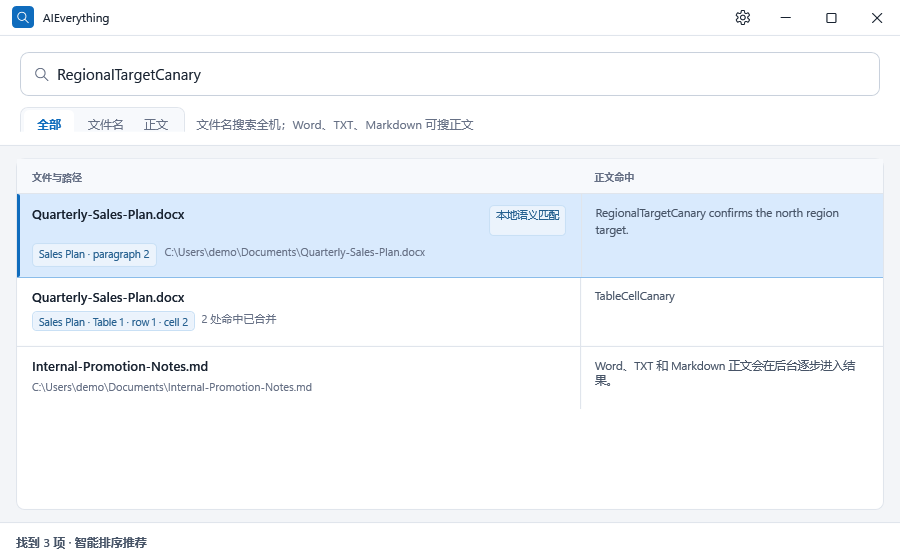
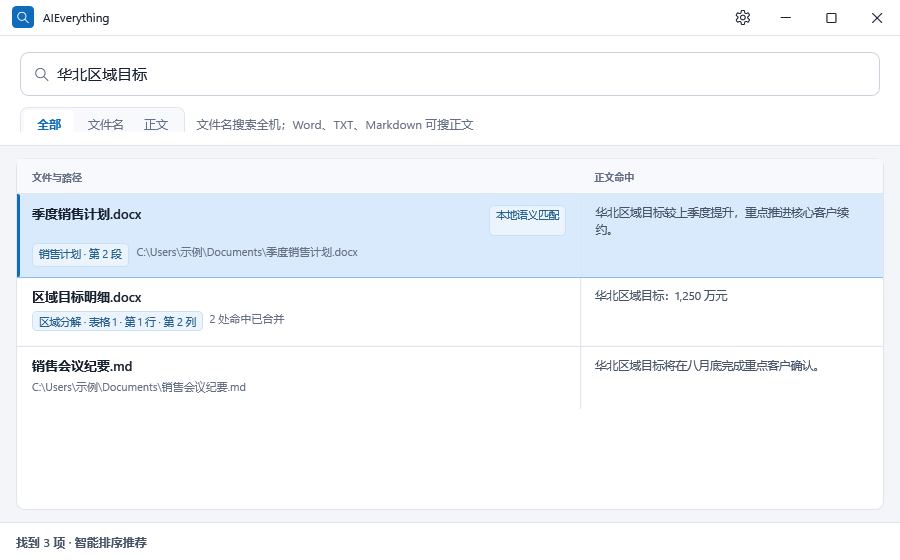
fix: localize Word locations and promotion proof

diff --git a/src/AIEverything.App/PromotionScreenshotView.xaml b/src/AIEverything.App/PromotionScreenshotView.xaml
@@ -50,7 +50,7 @@
                         <TextBlock Text="&#xE721;" FontFamily="Segoe Fluent Icons, Segoe MDL2 Assets"
                                    FontSize="15" Foreground="{StaticResource MutedTextBrush}"
                                    VerticalAlignment="Center" />
-                        <TextBlock Grid.Column="1" Text="RegionalTargetCanary"
+                        <TextBlock Grid.Column="1" Text="华北区域目标"
                                    FontSize="15" VerticalAlignment="Center" />
                     </Grid>
                 </Border>
@@ -110,7 +110,7 @@
                                 <Grid.RowDefinitions><RowDefinition /><RowDefinition /></Grid.RowDefinitions>
                                 <Grid>
                                     <Grid.ColumnDefinitions><ColumnDefinition Width="*" /><ColumnDefinition Width="Auto" /></Grid.ColumnDefinitions>
-                                    <TextBlock Text="Quarterly-Sales-Plan.docx" FontSize="13" FontWeight="SemiBold" />
+                                    <TextBlock Text="季度销售计划.docx" FontSize="13" FontWeight="SemiBold" />
                                     <Border Grid.Column="1" Style="{StaticResource MetadataBadgeStyle}" Margin="8,0,0,0">
                                         <TextBlock Text="本地语义匹配" FontSize="10.5" Foreground="#245F8F" />
                                     </Border>
@@ -118,16 +118,16 @@
                                 <Grid Grid.Row="1" Margin="0,7,0,0">
                                     <Grid.ColumnDefinitions><ColumnDefinition Width="Auto" /><ColumnDefinition Width="*" /></Grid.ColumnDefinitions>
                                     <Border Style="{StaticResource MetadataBadgeStyle}">
-                                        <TextBlock Text="Sales Plan · paragraph 2" FontSize="10.5" Foreground="#245F8F" />
+                                        <TextBlock Text="销售计划 · 第 2 段" FontSize="10.5" Foreground="#245F8F" />
                                     </Border>
                                     <TextBlock Grid.Column="1" Margin="8,1,0,0"
-                                               Text="C:\Users\demo\Documents\Quarterly-Sales-Plan.docx"
+                                               Text="C:\Users\示例\Documents\季度销售计划.docx"
                                                Foreground="{StaticResource MutedTextBrush}" FontSize="11" />
                                 </Grid>
                             </Grid>
                             <Border Grid.Column="2" BorderBrush="{StaticResource BorderBrush}"
                                     BorderThickness="1,0,0,0" Padding="14,10,12,8">
-                                <TextBlock Text="RegionalTargetCanary confirms the north region target."
+                                <TextBlock Text="华北区域目标较上季度提升，重点推进核心客户续约。"
                                            Foreground="{StaticResource SecondaryTextBrush}" FontSize="11.5"
                                            LineHeight="17" TextWrapping="Wrap" />
                             </Border>
@@ -138,16 +138,16 @@
                         <Grid Height="68">
                             <Grid.ColumnDefinitions><ColumnDefinition Width="13*" /><ColumnDefinition Width="7*" /></Grid.ColumnDefinitions>
                             <StackPanel Margin="15,10">
-                                <TextBlock Text="Quarterly-Sales-Plan.docx" FontSize="13" FontWeight="SemiBold" />
+                                <TextBlock Text="区域目标明细.docx" FontSize="13" FontWeight="SemiBold" />
                                 <StackPanel Orientation="Horizontal" Margin="0,6,0,0">
                                     <Border Style="{StaticResource MetadataBadgeStyle}">
-                                        <TextBlock Text="Sales Plan · Table 1 · row 1 · cell 2" FontSize="10.5" Foreground="#245F8F" />
+                                        <TextBlock Text="区域分解 · 表格 1 · 第 1 行 · 第 2 列" FontSize="10.5" Foreground="#245F8F" />
                                     </Border>
                                     <TextBlock Text="  2 处命中已合并" Foreground="{StaticResource MutedTextBrush}" FontSize="11" />
                                 </StackPanel>
                             </StackPanel>
                             <Border Grid.Column="1" BorderBrush="{StaticResource BorderBrush}" BorderThickness="1,0,0,0" Padding="14,10">
-                                <TextBlock Text="TableCellCanary" Foreground="{StaticResource SecondaryTextBrush}" FontSize="11.5" />
+                                <TextBlock Text="华北区域目标：1,250 万元" Foreground="{StaticResource SecondaryTextBrush}" FontSize="11.5" />
                             </Border>
                         </Grid>
                     </Border>
@@ -155,12 +155,12 @@
                     <Grid Height="62">
                         <Grid.ColumnDefinitions><ColumnDefinition Width="13*" /><ColumnDefinition Width="7*" /></Grid.ColumnDefinitions>
                         <StackPanel Margin="15,10">
-                            <TextBlock Text="Internal-Promotion-Notes.md" FontSize="13" FontWeight="SemiBold" />
-                            <TextBlock Text="C:\Users\demo\Documents\Internal-Promotion-Notes.md"
+                            <TextBlock Text="销售会议纪要.md" FontSize="13" FontWeight="SemiBold" />
+                            <TextBlock Text="C:\Users\示例\Documents\销售会议纪要.md"
                                        Margin="0,5,0,0" Foreground="{StaticResource MutedTextBrush}" FontSize="11" />
                         </StackPanel>
                         <Border Grid.Column="1" BorderBrush="{StaticResource BorderBrush}" BorderThickness="1,0,0,0" Padding="14,10">
-                            <TextBlock Text="Word、TXT 和 Markdown 正文会在后台逐步进入结果。"
+                            <TextBlock Text="华北区域目标将在八月底完成重点客户确认。"
                                        TextWrapping="Wrap" Foreground="{StaticResource SecondaryTextBrush}" FontSize="11.5" />
                         </Border>
                     </Grid>

diff --git a/src/AIEverything.Content/Extraction/OpenXmlTextExtractor.cs b/src/AIEverything.Content/Extraction/OpenXmlTextExtractor.cs
@@ -60,15 +60,15 @@ public sealed class OpenXmlTextExtractor : ITextExtractor
                     headingStack[level - 1] = text;
                     Array.Clear(headingStack, level, headingStack.Length - level);
                     var headingPath = CurrentHeadingPath(headingStack);
-                    blocks.Add(new ExtractedTextBlock(++ordinal, text, $"{headingPath} · heading {level}", headingPath));
+                    blocks.Add(new ExtractedTextBlock(++ordinal, text, $"{headingPath} · 标题 {level}", headingPath));
                     continue;
                 }
 
                 paragraphNumber++;
                 var currentHeading = CurrentHeadingPath(headingStack);
                 var label = currentHeading is null
-                    ? $"paragraph {paragraphNumber}"
-                    : $"{currentHeading} · paragraph {paragraphNumber}";
+                    ? $"第 {paragraphNumber} 段"
+                    : $"{currentHeading} · 第 {paragraphNumber} 段";
                 blocks.Add(new ExtractedTextBlock(++ordinal, text, label, currentHeading));
             }
             else if (element is W.Table table)
@@ -91,7 +91,7 @@ public sealed class OpenXmlTextExtractor : ITextExtractor
                         }
 
                         var currentHeading = CurrentHeadingPath(headingStack);
-                        var coordinates = $"Table {tableNumber} · row {rowNumber} · cell {cellNumber}";
+                        var coordinates = $"表格 {tableNumber} · 第 {rowNumber} 行 · 第 {cellNumber} 列";
                         var label = currentHeading is null ? coordinates : $"{currentHeading} · {coordinates}";
                         blocks.Add(new ExtractedTextBlock(++ordinal, text, label, currentHeading));
                     }

diff --git a/tests/AIEverything.Server.Tests/Desktop/StandaloneProductContractTests.cs b/tests/AIEverything.Server.Tests/Desktop/StandaloneProductContractTests.cs
@@ -145,9 +145,17 @@ public sealed class StandaloneProductContractTests
         Assert.Contains("PngBitmapEncoder", renderer, StringComparison.Ordinal);
         Assert.DoesNotContain("HttpListener", renderer, StringComparison.Ordinal);
         Assert.DoesNotContain("ContentIndexStore", renderer, StringComparison.Ordinal);
-        Assert.Contains("Quarterly-Sales-Plan.docx", view, StringComparison.Ordinal);
-        Assert.Contains("Sales Plan · paragraph 2", view, StringComparison.Ordinal);
-        Assert.Contains("RegionalTargetCanary", view, StringComparison.Ordinal);
+        Assert.Contains("季度销售计划.docx", view, StringComparison.Ordinal);
+        Assert.Single(System.Text.RegularExpressions.Regex.Matches(
+            view,
+            "Text=\"季度销售计划\\.docx\"",
+            System.Text.RegularExpressions.RegexOptions.CultureInvariant)
+            .Cast<System.Text.RegularExpressions.Match>());
+        Assert.Contains("区域目标明细.docx", view, StringComparison.Ordinal);
+        Assert.Contains("销售计划 · 第 2 段", view, StringComparison.Ordinal);
+        Assert.Contains("华北区域目标", view, StringComparison.Ordinal);
+        Assert.DoesNotContain("Canary", view, StringComparison.OrdinalIgnoreCase);
+        Assert.DoesNotContain("TestCanary", view, StringComparison.OrdinalIgnoreCase);
         Assert.Contains("本地语义匹配", view, StringComparison.Ordinal);
         Assert.Contains("找到 3 项 · 智能排序推荐", view, StringComparison.Ordinal);
 

diff --git a/tests/AIEverything.Server.Tests/Content/MachineSnapshotStoreTests.cs b/tests/AIEverything.Server.Tests/Content/MachineSnapshotStoreTests.cs
@@ -91,7 +91,7 @@ public sealed class MachineSnapshotStoreTests : IAsyncLifetime
         var blocks = new[]
         {
             new ExtractedTextBlock(1, "Sales Plan", "Sales Plan · heading 1", "Sales Plan"),
-            new ExtractedTextBlock(2, "regional target is rising", "Sales Plan · paragraph 4", "Sales Plan")
+            new ExtractedTextBlock(2, "regional target is rising", "Sales Plan · 第 4 段", "Sales Plan")
         };
         await _store.CompleteAsync(
             lease,
@@ -102,7 +102,7 @@ public sealed class MachineSnapshotStoreTests : IAsyncLifetime
             new ContentSearchRequest("regional target"), CancellationToken.None);
 
         var item = Assert.Single(response.Items);
-        Assert.Equal("Sales Plan · paragraph 4", item.LocationLabel);
+        Assert.Equal("Sales Plan · 第 4 段", item.LocationLabel);
         Assert.Equal("Sales Plan", item.HeadingPath);
     }
 

diff --git a/tests/AIEverything.Server.Tests/Content/SourceLocationResolverTests.cs b/tests/AIEverything.Server.Tests/Content/SourceLocationResolverTests.cs
@@ -11,13 +11,13 @@ public sealed class SourceLocationResolverTests
         var blocks = new[]
         {
             new ExtractedTextBlock(1, "Sales Plan", "Sales Plan · heading 1", "Sales Plan"),
-            new ExtractedTextBlock(2, "regional target is rising", "Sales Plan · paragraph 4", "Sales Plan")
+            new ExtractedTextBlock(2, "regional target is rising", "Sales Plan · 第 4 段", "Sales Plan")
         };
 
         var hit = Assert.Single(SourceLocationResolver.Resolve(
             "Sales Plan\nregional target is rising", "docx", ["regional", "target"], blocks));
 
-        Assert.Equal("Sales Plan · paragraph 4", hit.LocationLabel);
+        Assert.Equal("Sales Plan · 第 4 段", hit.LocationLabel);
         Assert.Equal("Sales Plan", hit.HeadingPath);
         Assert.Contains("regional target", hit.Snippet, StringComparison.Ordinal);
     }

diff --git a/tests/AIEverything.Server.Tests/Content/TextExtractorTests.cs b/tests/AIEverything.Server.Tests/Content/TextExtractorTests.cs
@@ -110,12 +110,12 @@ public sealed class TextExtractorTests : IDisposable
         Assert.NotNull(result.Blocks);
         Assert.Contains(result.Blocks!, block =>
             block.Text == "Quarterly operating plan" &&
-            block.LocationLabel.Contains("paragraph", StringComparison.OrdinalIgnoreCase));
+            block.LocationLabel.Contains("第 1 段", StringComparison.Ordinal));
         Assert.Contains(result.Blocks!, block =>
             block.Text == "regional target" && block.HeadingPath == "Sales Plan");
         Assert.Contains(result.Blocks!, block =>
             block.Text == "CellCanary" &&
-            block.LocationLabel.Contains("Table 1 · row 1 · cell 2", StringComparison.Ordinal));
+            block.LocationLabel.Contains("表格 1 · 第 1 行 · 第 2 列", StringComparison.Ordinal));
     }
 
     [Fact]
